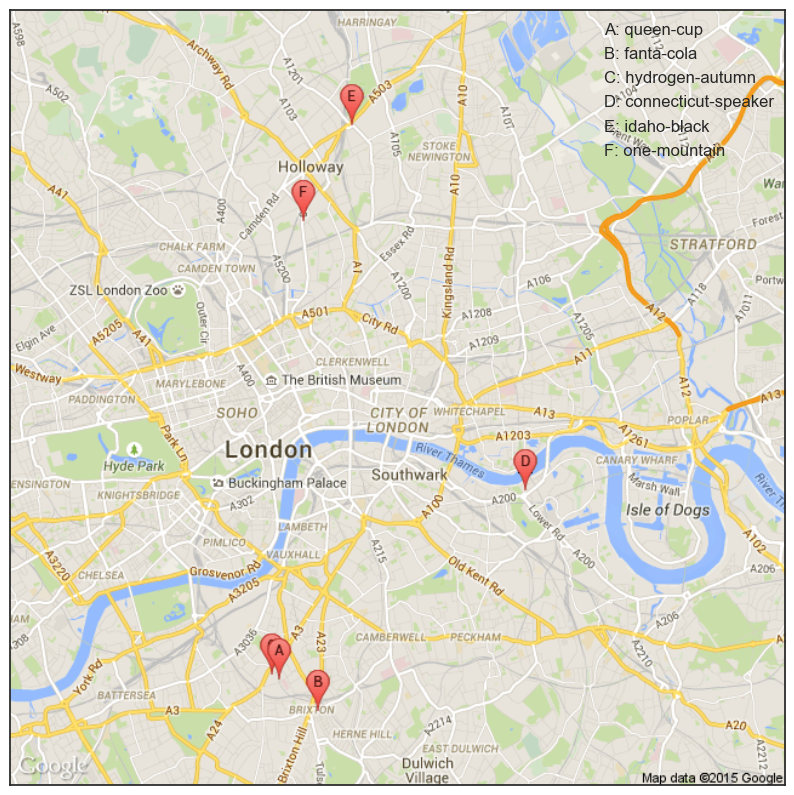
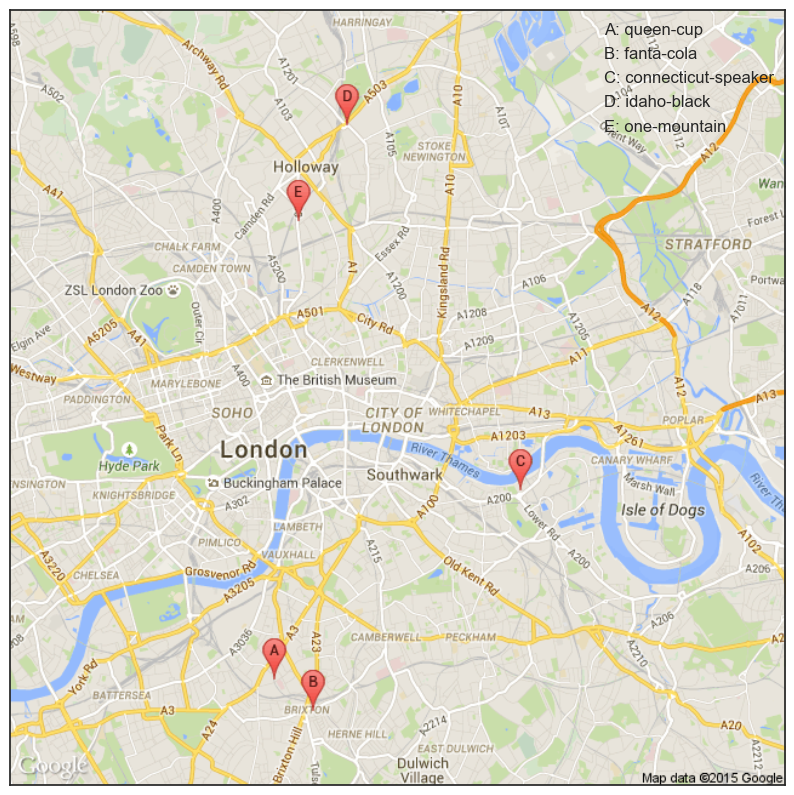
Updated at 2015-08-17 21:53:42.265194

Changed region(s): [[0.0, 0.0, 0.9975, 0.9962], [0.0, 0.5132, 0.0302, 0.5434], [0.0, 0.0302, 0.0302, 0.0604]]

diff --git a/index.html b/index.html
@@ -7,8 +7,8 @@
     <div class="top-pane listing">
       <div id="summary">
         <ul>
-          <li>Last scrape was at 18:00 on Monday.</li>
-          <li>20 listings have been found, of which 13 are still available and 6 are of interest.</li>
+          <li>Last scrape was at 21:53 on Monday.</li>
+          <li>20 listings have been found, of which 13 are still available and 5 are of interest.</li>
           <li>Listing 2-bed properties below &pound1550pcm. Each is within 0.5 miles of a station that is less than 20 minutes from both Euston and Green Park.</li>
         </ul>
       </div>
@@ -87,42 +87,6 @@
         <img src="photos/37755971_3.jpg">
       
         <img src="photos/37755971_4.jpg">
-      
-      </div>
-    </div>
-    
-    <div class="listing  ">
-      <div class="value-displays" style="background-color:rgb(253, 146, 62);color:rgb(50, 50, 50)">
-        Price<br>&pound1433pcm
-      </div>
-      <div class="value-display-sep">
-      </div>
-      <div class="value-displays" style="background-color:rgb(71, 172, 207);color:rgb(50, 50, 50)">
-        Euston<br>20 mins
-      </div>
-      <div class="value-displays" style="background-color:rgb(227, 244, 222);color:rgb(50, 50, 50)">
-        Green Park<br>15 mins
-      </div>
-      <ul id="details">
-        <li><em>hydrogen-autumn</em> near Clapham North, Stockwell</li>
-        <li>"Available from  7th Sep 2015"</li>
-        <li>Last updated: 2015-08-17 07:28:43</li>
-        <li>Portico - Clapham, <a href="http://www.zoopla.co.uk/to-rent/details/27479997?utm_source=v1:obWdDj_MDAXd-gCkcawgry-mNhcrjq-F&utm_medium=api">details</a>
-        
-      </ul>
-      <div id="photos">
-      
-        <img src="photos/27479997_0.jpg">
-      
-        <img src="photos/27479997_1.jpg">
-      
-        <img src="photos/27479997_2.jpg">
-      
-        <img src="photos/27479997_3.jpg">
-      
-        <img src="photos/27479997_4.jpg">
-      
-        <img src="photos/27479997_5.jpg">
       
       </div>
     </div>
@@ -241,6 +205,42 @@
         <img src="photos/31950094_4.jpg">
       
         <img src="photos/31950094_5.jpg">
+      
+      </div>
+    </div>
+    
+    <div class="listing  ignored">
+      <div class="value-displays" style="background-color:rgb(253, 146, 62);color:rgb(50, 50, 50)">
+        Price<br>&pound1433pcm
+      </div>
+      <div class="value-display-sep">
+      </div>
+      <div class="value-displays" style="background-color:rgb(71, 172, 207);color:rgb(50, 50, 50)">
+        Euston<br>20 mins
+      </div>
+      <div class="value-displays" style="background-color:rgb(227, 244, 222);color:rgb(50, 50, 50)">
+        Green Park<br>15 mins
+      </div>
+      <ul id="details">
+        <li><em>hydrogen-autumn</em> near Clapham North, Stockwell</li>
+        <li>"Available from  7th Sep 2015"</li>
+        <li>Last updated: 2015-08-17 18:48:55</li>
+        <li>Portico - Clapham, <a href="http://www.zoopla.co.uk/to-rent/details/27479997?utm_source=v1:obWdDj_MDAXd-gCkcawgry-mNhcrjq-F&utm_medium=api">details</a>
+        <li>Ignored because "bad energy rating, electric hob"</li>
+      </ul>
+      <div id="photos">
+      
+        <img src="photos/27479997_0.jpg">
+      
+        <img src="photos/27479997_1.jpg">
+      
+        <img src="photos/27479997_2.jpg">
+      
+        <img src="photos/27479997_3.jpg">
+      
+        <img src="photos/27479997_4.jpg">
+      
+        <img src="photos/27479997_5.jpg">
       
       </div>
     </div>
